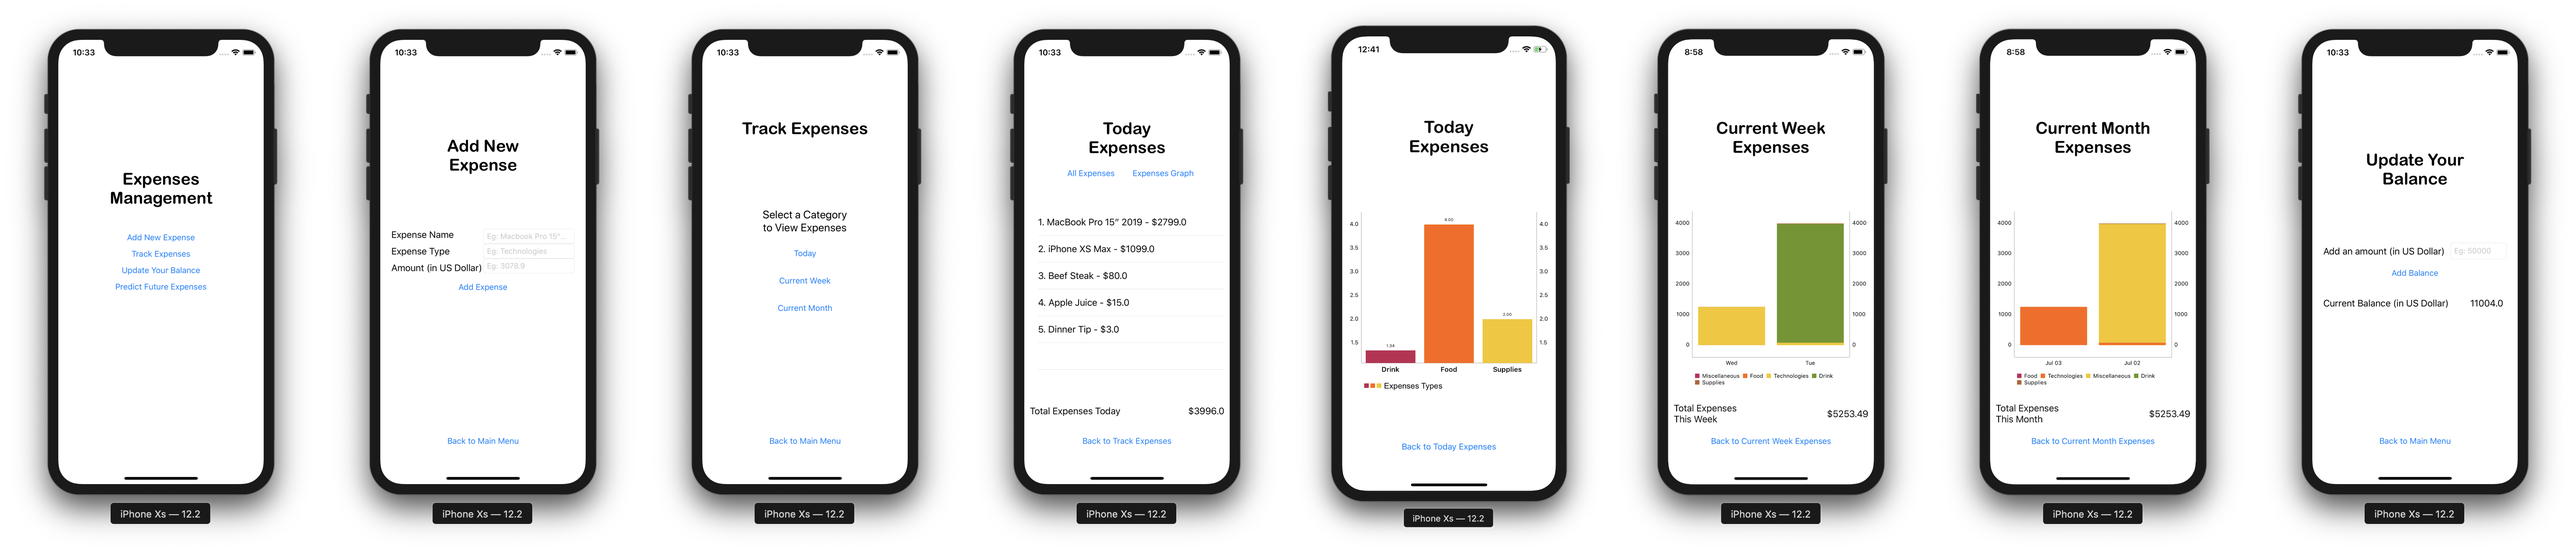
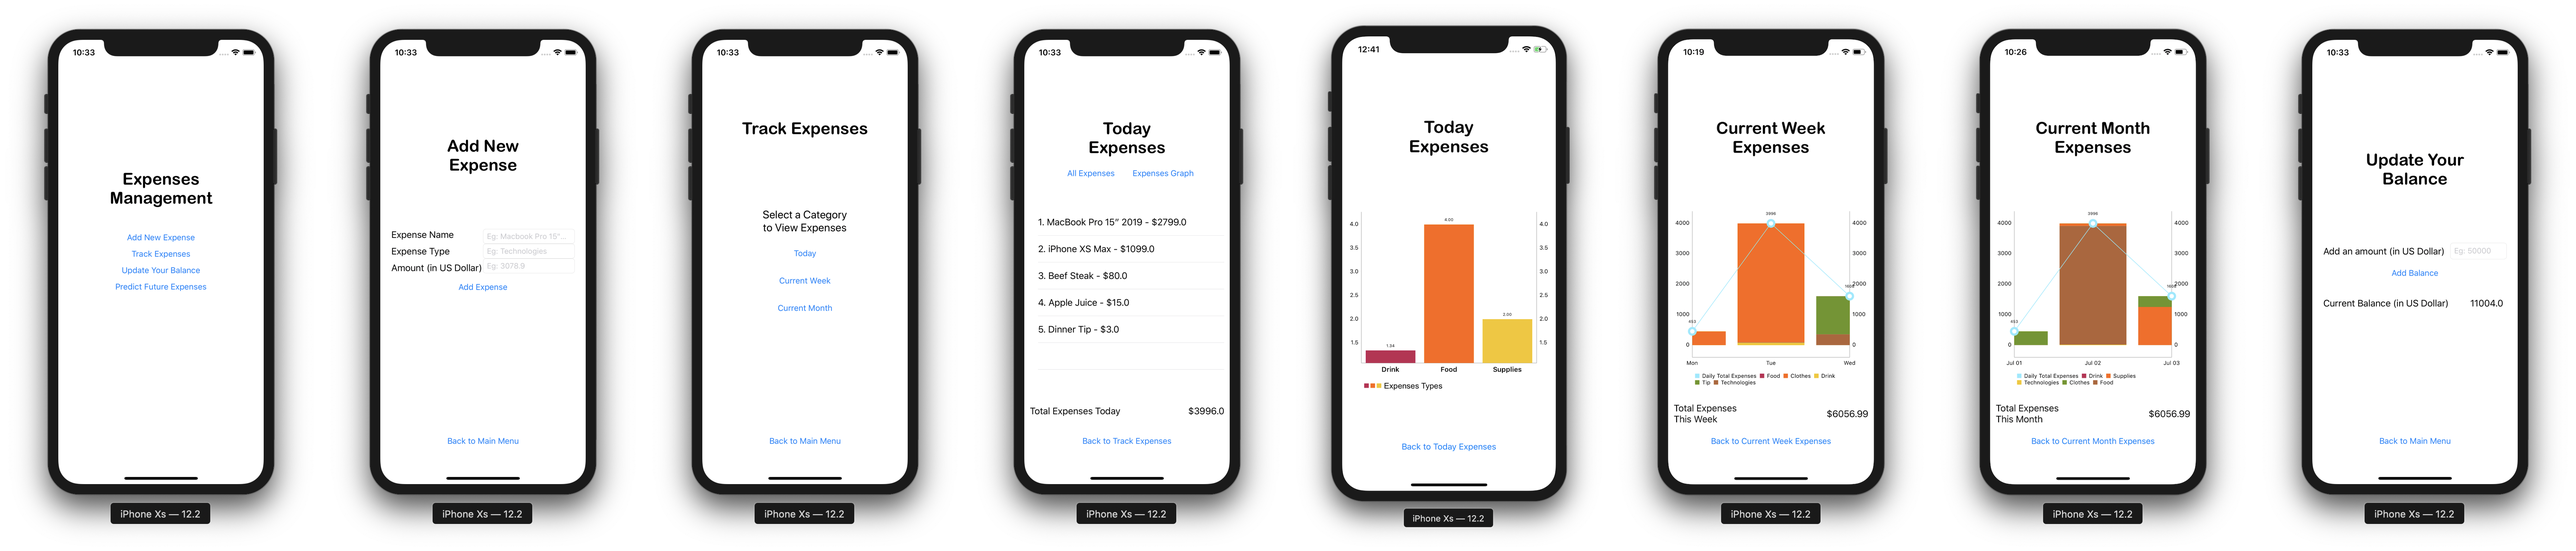
update combined graphs

diff --git a/Expense Management/CurrentMonthGraphViewViewController.swift b/Expense Management/CurrentMonthGraphViewViewController.swift
@@ -11,10 +11,10 @@ import Charts
 
 class CurrentMonthGraphViewViewController: UIViewController {
 
-    @IBOutlet weak var currentMonthExpensesAmountLabel: UILabel!
     // MARK: Properties
-    @IBOutlet weak var currentMonthExpensesBarChartView: BarChartView!
-
+    @IBOutlet weak var currentMonthExpensesAmountLabel: UILabel!
+    @IBOutlet weak var currentMonthExpensesCombinedChartView: CombinedChartView!
+    
     // MARK: viewDidLoad
     override func viewDidLoad() {
         super.viewDidLoad()
@@ -72,22 +72,26 @@ class CurrentMonthGraphViewViewController: UIViewController {
         let currentMonthKeys: [String] = Array(currentMonthExpensesType.keys)
         var allCurrentMonthExpenseTypes: Set<String> = []
         var currentMonthAmounts = [[Double]]()
-        
-        // get all expenses type for current Week
+        var totalDailyExpenses: [Double] = []
+
+        // get all expenses type for current month
         for day in currentMonthKeys {
             let currentExpensesDict = currentMonthExpensesType[day]!
             allCurrentMonthExpenseTypes = allCurrentMonthExpenseTypes.union(Set(currentExpensesDict.keys))
         }
         
-        // get all amounts into nested-array
+        // get all amounts into nested-array and compute total daily expenses
         for day in currentMonthKeys {
+            var totalExpensesCurrentDay: Double = 0.0
             var currentAmounts = [Double]()
             let currentExpensesDict = currentMonthExpensesType[day]!
             let currentExpensesKeys = Set(currentExpensesDict.keys)
             
             for expenseType in allCurrentMonthExpenseTypes {
                 if currentExpensesKeys.contains(expenseType) {
-                    currentAmounts.append(currentExpensesDict[expenseType]!)
+                    let amount: Double = currentExpensesDict[expenseType]!
+                    currentAmounts.append(amount)
+                    totalExpensesCurrentDay += amount
                 } else {
                     currentAmounts.append(0.0)
                 }
@@ -95,6 +99,9 @@ class CurrentMonthGraphViewViewController: UIViewController {
             
             // append all amount for current day to the current week array
             currentMonthAmounts.append(currentAmounts)
+
+            // append current day expenses amount to totalDailyExpenses
+            totalDailyExpenses.append(totalExpensesCurrentDay)
         }
         
         for i in 0 ..< currentMonthKeys.count {
@@ -104,25 +111,40 @@ class CurrentMonthGraphViewViewController: UIViewController {
         
         // set x_axis customizations
         let xAxisLabels: [String] = printDateFormat(datesList: currentMonthKeys)
-        currentMonthExpensesBarChartView.xAxis.labelCount = xAxisLabels.count
-        currentMonthExpensesBarChartView.xAxis.valueFormatter = IndexAxisValueFormatter(values: xAxisLabels)
-        currentMonthExpensesBarChartView.xAxis.granularity = 1
-        currentMonthExpensesBarChartView.xAxis.labelPosition = XAxis.LabelPosition.bottom
+        currentMonthExpensesCombinedChartView.xAxis.labelCount = xAxisLabels.count
+        currentMonthExpensesCombinedChartView.xAxis.valueFormatter = IndexAxisValueFormatter(values: xAxisLabels)
+        currentMonthExpensesCombinedChartView.xAxis.granularity = 1
+        currentMonthExpensesCombinedChartView.xAxis.labelPosition = XAxis.LabelPosition.bottom
         
         // hide all grids
-        currentMonthExpensesBarChartView.xAxis.drawGridLinesEnabled = false
-        currentMonthExpensesBarChartView.rightAxis.drawGridLinesEnabled = false
-        currentMonthExpensesBarChartView.leftAxis.drawGridLinesEnabled = false
+        currentMonthExpensesCombinedChartView.xAxis.drawGridLinesEnabled = false
+        currentMonthExpensesCombinedChartView.rightAxis.drawGridLinesEnabled = false
+        currentMonthExpensesCombinedChartView.leftAxis.drawGridLinesEnabled = false
         
-        let chartDataSet = BarChartDataSet(entries: currentMonthBarChartEntries, label: "")
-        chartDataSet.colors = ChartColorTemplates.colorful()
-        chartDataSet.stackLabels = Array(allCurrentMonthExpenseTypes)
-        chartDataSet.drawValuesEnabled = false
-        let data = BarChartData(dataSet: chartDataSet)
-        currentMonthExpensesBarChartView.data = data
+        let barChartDataSet = BarChartDataSet(entries: currentMonthBarChartEntries, label: "")
+        barChartDataSet.colors = ChartColorTemplates.colorful()
+        barChartDataSet.stackLabels = Array(allCurrentMonthExpenseTypes)
+        barChartDataSet.drawValuesEnabled = false
+
+        // set up line data
+        var lineChartEntries = [ChartDataEntry]()
+        for i in 0 ..< currentMonthKeys.count {
+            let currentLineChartEntry = ChartDataEntry(x: Double(i), y: totalDailyExpenses[i])
+            lineChartEntries.append(currentLineChartEntry)
+        }
         
-        currentMonthExpensesBarChartView.noDataText = "No expense to display!"
-        currentMonthExpensesBarChartView.animate(xAxisDuration: 0.5, yAxisDuration: 1.0)
+        let lineChartDataSet = LineChartDataSet(entries: lineChartEntries, label: "Daily Total Expenses")
+        
+        // setup combined data
+        let data: CombinedChartData = CombinedChartData(dataSets: [barChartDataSet, lineChartDataSet])
+        data.barData = BarChartData(dataSet: barChartDataSet)
+        data.lineData = LineChartData(dataSet: lineChartDataSet)
+        currentMonthExpensesCombinedChartView.data = data
+
+        
+        currentMonthExpensesCombinedChartView.noDataText = "No expense to display!"
+        currentMonthExpensesCombinedChartView.animate(xAxisDuration: 0.5, yAxisDuration: 1.0)
+        
     }
     
     func printDateFormat(datesList: [String]) -> [String] {

diff --git a/Expense Management/CurrentWeekGraphViewViewController.swift b/Expense Management/CurrentWeekGraphViewViewController.swift
@@ -12,8 +12,8 @@ import Charts
 class CurrentWeekGraphViewViewController: UIViewController {
     
     @IBOutlet weak var currentWeekExpensesAmountLabel: UILabel!
+    @IBOutlet weak var currentWeekExpensesCombinedChartView: CombinedChartView!
     // MARK: Properties
-    @IBOutlet weak var currentWeekExpensesBarChartView: BarChartView!
     
     // MARK: viewDidLoad
     override func viewDidLoad() {
@@ -71,8 +71,10 @@ class CurrentWeekGraphViewViewController: UIViewController {
     func currentWeekChartInit(currentWeekExpensesType: [String : [String : Double]]) {
         var currentWeekBarChartEntries: [BarChartDataEntry] = []
         let currentWeekKeys: [String] = Array(currentWeekExpensesType.keys)
+        print(currentWeekKeys)
         var allCurrentWeekExpenseTypes: Set<String> = []
         var currentWeekAmounts = [[Double]]()
+        var totalDailyExpenses: [Double] = []
         
         // get all expenses type for current Week
         for day in currentWeekKeys {
@@ -80,15 +82,18 @@ class CurrentWeekGraphViewViewController: UIViewController {
             allCurrentWeekExpenseTypes = allCurrentWeekExpenseTypes.union(Set(currentExpensesDict.keys))
         }
 
-        // get all amounts into nested-array
+        // get all amounts into nested-array and compute total daily expenses
         for day in currentWeekKeys {
+            var totalExpensesCurrentDay: Double = 0.0
             var currentAmounts = [Double]()
             let currentExpensesDict = currentWeekExpensesType[day]!
             let currentExpensesKeys = Set(currentExpensesDict.keys)
 
             for expenseType in allCurrentWeekExpenseTypes {
                 if currentExpensesKeys.contains(expenseType) {
-                    currentAmounts.append(currentExpensesDict[expenseType]!)
+                    let amount: Double = currentExpensesDict[expenseType]!
+                    currentAmounts.append(amount)
+                    totalExpensesCurrentDay += amount
                 } else {
                     currentAmounts.append(0.0)
                 }
@@ -96,6 +101,9 @@ class CurrentWeekGraphViewViewController: UIViewController {
             
             // append all amount for current day to the current week array
             currentWeekAmounts.append(currentAmounts)
+            
+            // append current day expenses amount to totalDailyExpenses
+            totalDailyExpenses.append(totalExpensesCurrentDay)
         }
 
         for i in 0 ..< currentWeekKeys.count {
@@ -105,25 +113,37 @@ class CurrentWeekGraphViewViewController: UIViewController {
 
         // set x_axis customizations
         let xAxisLabels: [String] = printDateFormat(datesList: currentWeekKeys)
-        currentWeekExpensesBarChartView.xAxis.labelCount = xAxisLabels.count
-        currentWeekExpensesBarChartView.xAxis.valueFormatter = IndexAxisValueFormatter(values: xAxisLabels)
-        currentWeekExpensesBarChartView.xAxis.granularity = 1
-        currentWeekExpensesBarChartView.xAxis.labelPosition = XAxis.LabelPosition.bottom
+        currentWeekExpensesCombinedChartView.xAxis.labelCount = xAxisLabels.count
+        currentWeekExpensesCombinedChartView.xAxis.valueFormatter = IndexAxisValueFormatter(values: xAxisLabels)
+        currentWeekExpensesCombinedChartView.xAxis.granularity = 1
+        currentWeekExpensesCombinedChartView.xAxis.labelPosition = XAxis.LabelPosition.bottom
         
         // hide all grids
-        currentWeekExpensesBarChartView.xAxis.drawGridLinesEnabled = false
-        currentWeekExpensesBarChartView.rightAxis.drawGridLinesEnabled = false
-        currentWeekExpensesBarChartView.leftAxis.drawGridLinesEnabled = false
+        currentWeekExpensesCombinedChartView.xAxis.drawGridLinesEnabled = false
+        currentWeekExpensesCombinedChartView.rightAxis.drawGridLinesEnabled = false
+        currentWeekExpensesCombinedChartView.leftAxis.drawGridLinesEnabled = false
 
-        let chartDataSet = BarChartDataSet(entries: currentWeekBarChartEntries, label: "")
-        chartDataSet.colors = ChartColorTemplates.colorful()
-        chartDataSet.stackLabels = Array(allCurrentWeekExpenseTypes)
-        chartDataSet.drawValuesEnabled = false
-        let data = BarChartData(dataSet: chartDataSet)
-        currentWeekExpensesBarChartView.data = data
+        let barChartDataSet = BarChartDataSet(entries: currentWeekBarChartEntries, label: "")
+        barChartDataSet.colors = ChartColorTemplates.colorful()
+        barChartDataSet.stackLabels = Array(allCurrentWeekExpenseTypes)
+        barChartDataSet.drawValuesEnabled = false
         
-        currentWeekExpensesBarChartView.noDataText = "No expense to display!"
-        currentWeekExpensesBarChartView.animate(xAxisDuration: 0.5, yAxisDuration: 1.0)
+        // set up line data
+        var lineChartEntries = [ChartDataEntry]()
+        for i in 0 ..< currentWeekKeys.count {
+            let currentLineChartEntry = ChartDataEntry(x: Double(i), y: totalDailyExpenses[i])
+            lineChartEntries.append(currentLineChartEntry)
+        }
+        
+        let lineChartDataSet = LineChartDataSet(entries: lineChartEntries, label: "Daily Total Expenses")
+        
+        // setup combined data
+        let data: CombinedChartData = CombinedChartData(dataSets: [barChartDataSet, lineChartDataSet])
+        data.barData = BarChartData(dataSet: barChartDataSet)
+        data.lineData = LineChartData(dataSet: lineChartDataSet)
+        currentWeekExpensesCombinedChartView.data = data
+        
+        currentWeekExpensesCombinedChartView.animate(xAxisDuration: 0.5, yAxisDuration: 1.0)
     }
     
     func printDateFormat(datesList: [String]) -> [String] {
